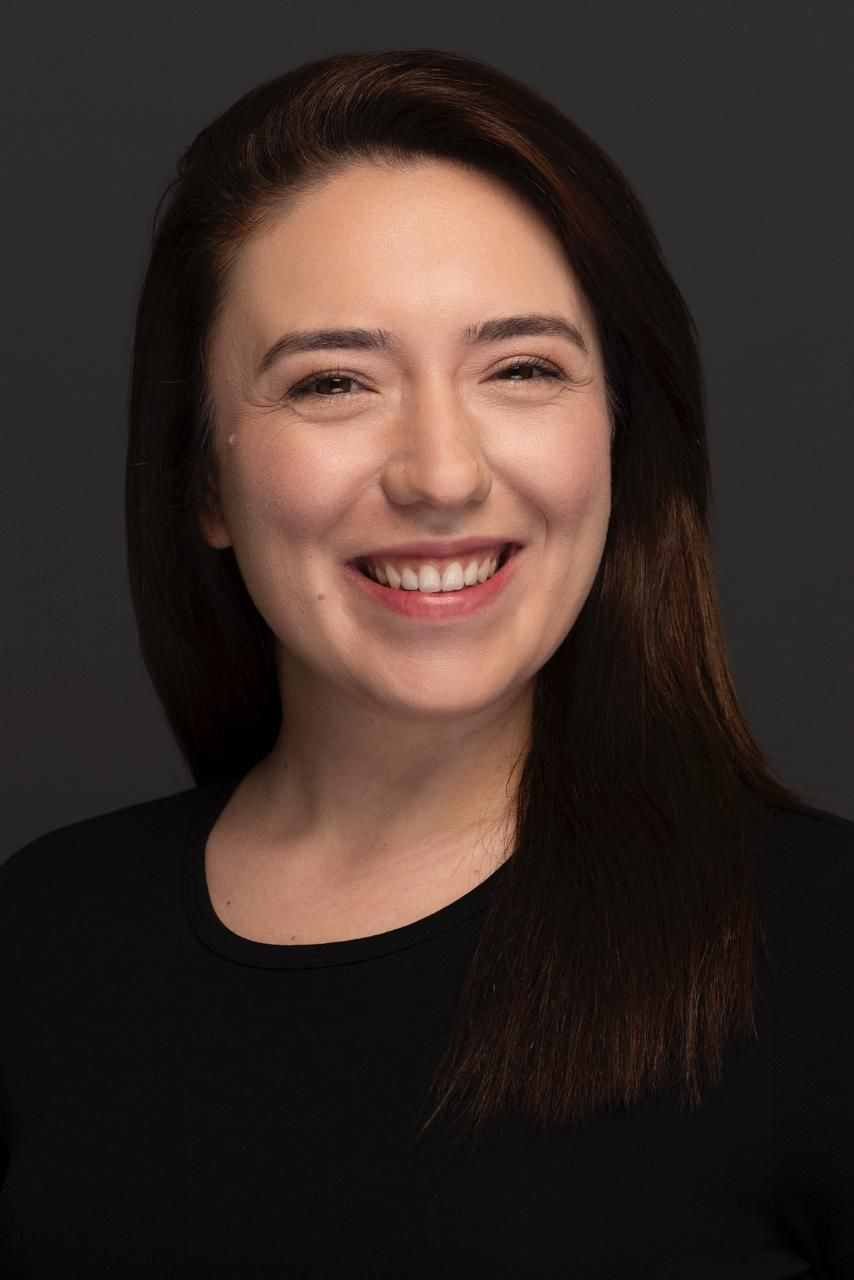
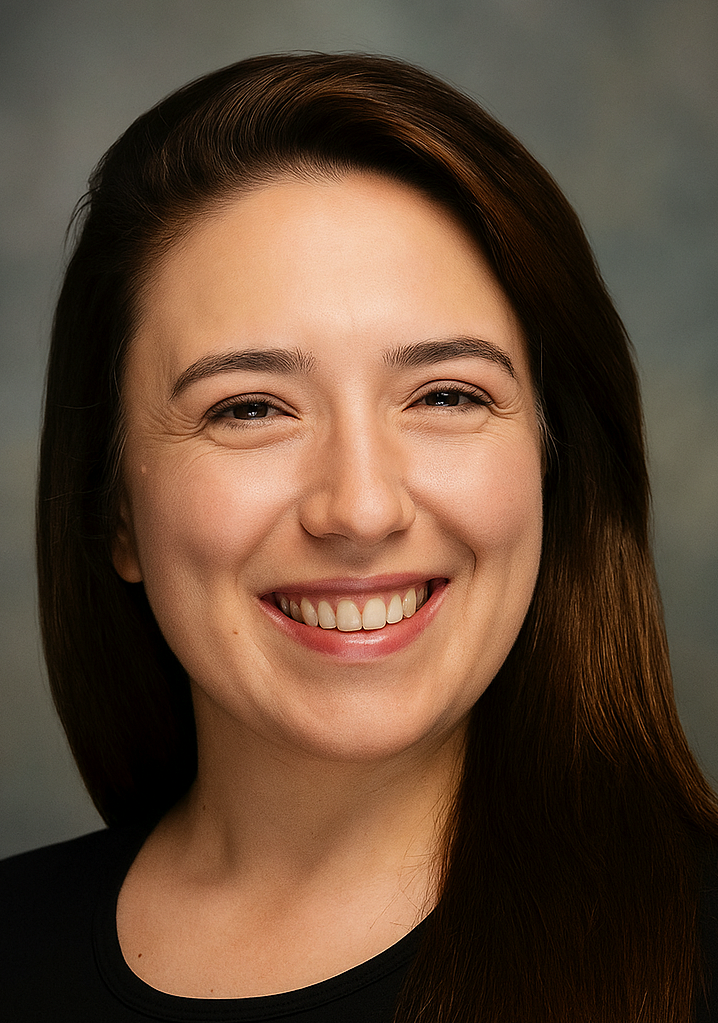
UPDATED --CartImage team image

diff --git a/src/ui/Card/index.tsx b/src/ui/Card/index.tsx
@@ -86,8 +86,8 @@ export default function Card({ items, variant }: CardProps) {
 
       {
         variant === "team" && (
-          <div className="absolute left-0 right-0 -bottom-2 p-6 text-center bg-white
-    transition-all duration-300 ease-in-out group-hover:bottom-3">
+          <div className="absolute left-0 right-0 -bottom-3 p-6 text-center bg-white
+    transition-all duration-300 ease-in-out group-hover:bottom-0">
             <p className="font-display text-3xl">{user?.name}</p>
             <span className="font-display-02 text-gray-500">{user?.position}</span>
             <div className="mt-2 flex justify-center gap-4 opacity-0 translate-y-4

diff --git a/src/components/Team/index.tsx b/src/components/Team/index.tsx
@@ -16,7 +16,7 @@ export default function Team({ members }: TeamProps) {
           <div className="flex items-center justify-center w-full mb-8">
             <Card items={members[0]} variant="team" />
           </div>
-          <div className="grid grid-cols-1 md:grid-cols-2 lg:grid-cols-4 gap-8">
+          <div className="grid grid-cols-1 md:grid-cols-2 lg:grid-cols-4 gap-6">
             {members.slice(1).map(member => (
               <div key={member.id} className="flex items-center justify-center">
                 <Card items={member} variant="team" />

diff --git a/src/components/CardImage/index.tsx b/src/components/CardImage/index.tsx
@@ -37,7 +37,7 @@ export default function CardImage({ items, variant }: CardProps) {
             alt={title}
             className={`
         ${variant === "team"
-                ? "w-full h-full object-cover"
+                ? " object-contain"
                 : "w-12 h-12 object-contain filter invert brightness-0"
               }
       `}
